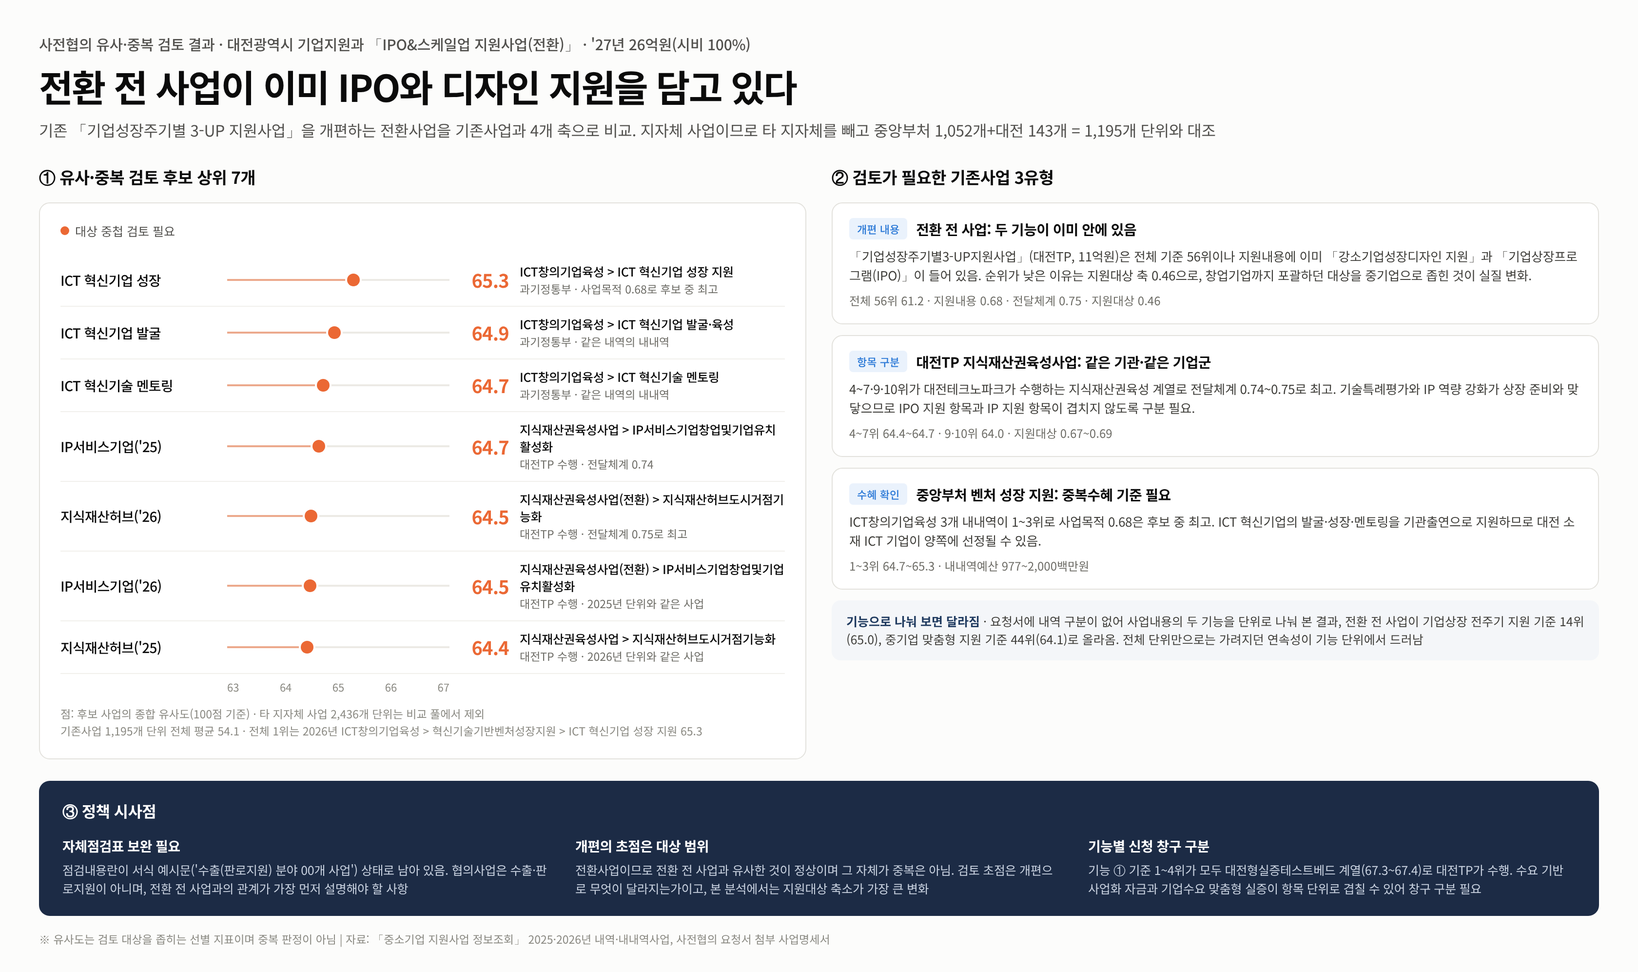
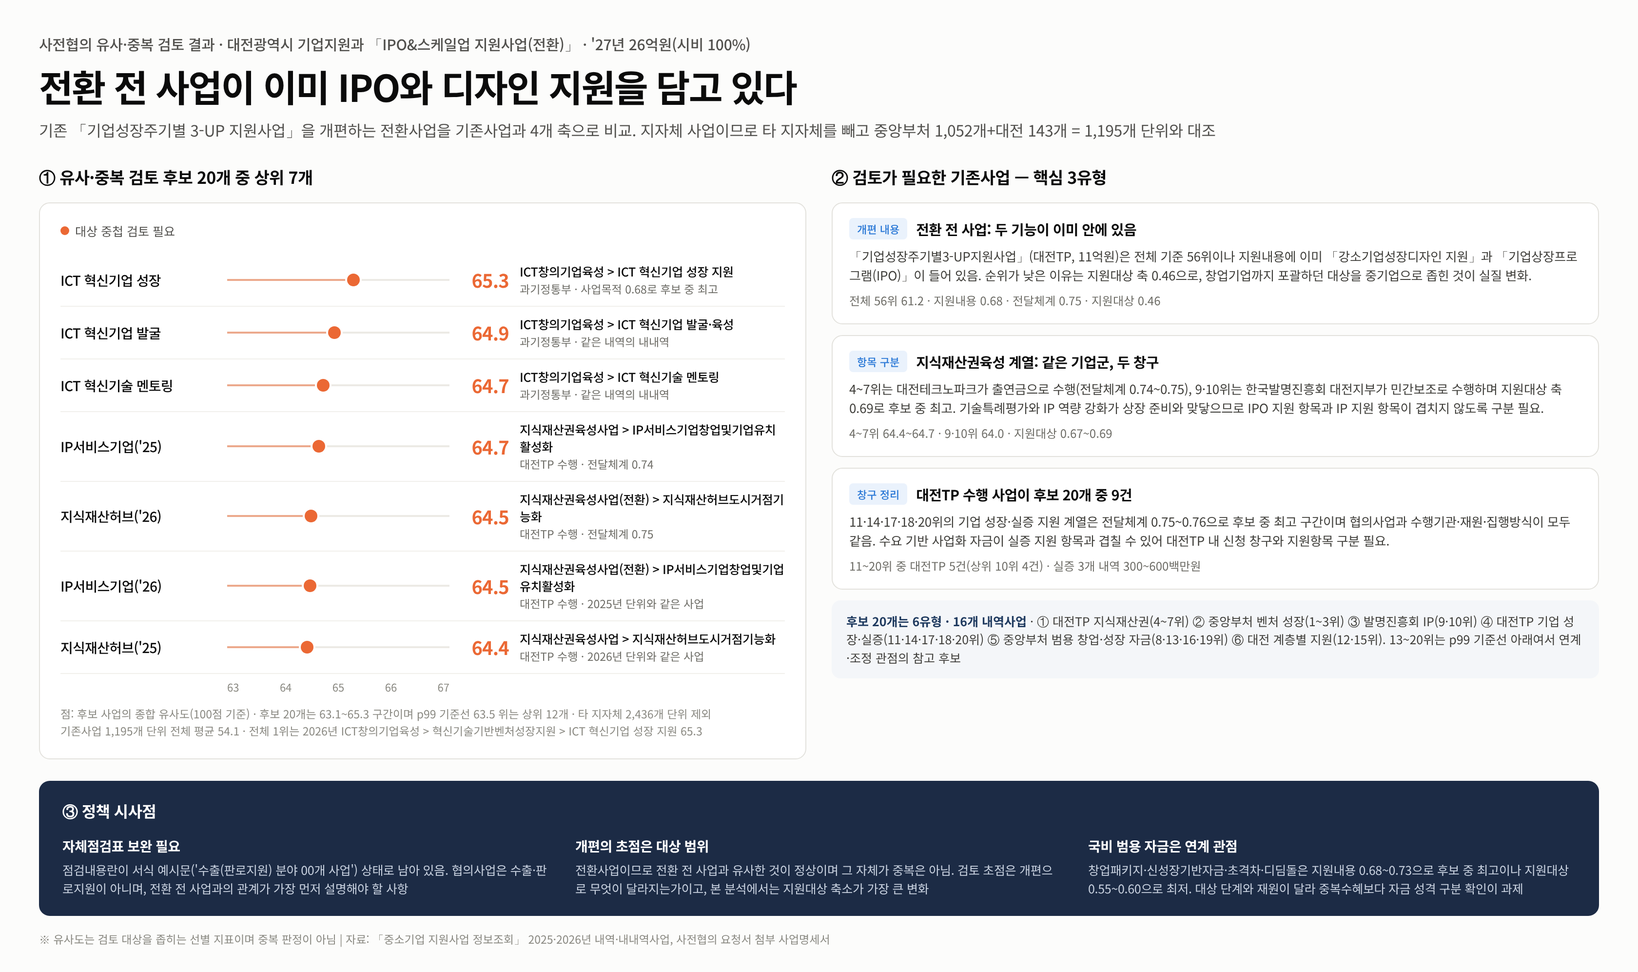
유사중복 분석: 「IPO&스케일업 지원사업(전환)」(대전) 후보 20개로 재작성
상위 10개 기준으로 작성했던 검토보고서를 새 규칙(상위 20개)에 맞춰 다시 썼다.
산출값은 바뀌지 않았다. 같은 요청서·같은 프로필·같은 임베딩 캐시로 다시 돌려
기존 xlsx와 전체 1,195단위의 종합 유사도가 최대 오차 0.00000으로 일치함을
확인했고, 순위표 xlsx 는 이미 전체 단위를 담고 있어 교체하지 않았다.

보고서
- 후보 표를 20행으로 확대(63.1~65.3). 후보 20개는 모두 평균+2σ(62.4)를
  넘으나 p99 기준선(63.5) 위는 상위 12개뿐이어서 13위부터는 기준선 아래임을
  분포 항목과 유의사항에 명시
- 유형을 3개에서 6개로 재구성해 후보 20개를 빠짐없이 배치
  ① 대전TP 지식재산권(4~7위) ② 중앙부처 벤처 성장(1~3위)
  ③ 발명진흥회 IP(9·10위) ④ 대전TP 기업 성장·실증(11·14·17·18·20위)
  ⑤ 중앙부처 범용 창업·성장 자금(8·13·16·19위) ⑥ 대전 계층별 지원(12·15위)
- 후보 구성(16개 내역사업·11개 세부사업, 대전 13건·중앙부처 7건, 대전TP 9건)과
  후보 확대 효과를 항목으로 추가
- 이전 보고서가 9·10위를 대전테크노파크 수행으로 묶었으나 실제 수행기관은
  한국발명진흥회 대전지부(민간보조)이므로 별도 유형으로 분리
- 전달체계 축 편향을 유의사항에서 후보 20개 기준(대전TP 9건)으로 다시 서술

그림·Word
- 좌측 차트는 상위 7개를 유지하되 제목과 주석에 후보 20개 중 일부임을 명시
- 유형 카드 3개를 20개 기준으로 교체하고, 6유형 전체를 비고에 요약

보고서의 순위·점수·건수 122개를 xlsx 에서 다시 읽어 대조했다.

Claude-Session: https://claude.ai/code/session_01LJTzKx3FYESPdGRcAtLmdx

diff --git a/similarity/results/유사중복_검토_대전IPO스케일업.md b/similarity/results/유사중복_검토_대전IPO스케일업.md
@@ -1,12 +1,12 @@
 # 「IPO&스케일업 지원사업(전환)」 유사·중복 후보 분석 결과
 
 - 협의사업: 대전광역시 기업지원과, ’27년 2,600백만원(시비 100%, 통계목 306-01 출연금), 사업기간 2027.1.~12. 단년도 계속, 수행 (재)대전테크노파크
-- 분석일: 2026.11.3. / 분석도구: `similarity/similarity_check.py --region 대전`(BAAI/bge-m3, 4개 축 코사인 유사도 가중합)
+- 분석일: 2026.11.9.(후보 20개 기준 재작성, 산출값은 2026.11.3. 분석과 동일) / 분석도구: `similarity/similarity_check.py --region 대전`(BAAI/bge-m3, 4개 축 코사인 유사도 가중합)
 - 산출파일: `similarity/results/유사도_산출결과_대전IPO스케일업.xlsx`(가중치·전체·기능 2개·공고매핑 시트), 프로필 `similarity/results/new_project_profile_대전IPO스케일업.json`
 
 ## 1. 검토 개요
 
-□ 협의사업의 4개 축 서술을 2025·2026년 중소기업 지원 내역·내내역사업과 임베딩 유사도로 비교하여 유사·중복 검토 후보 10개를 선정
+□ 협의사업의 4개 축 서술을 2025·2026년 중소기업 지원 내역·내내역사업과 임베딩 유사도로 비교하여 유사·중복 검토 후보 20개를 선정
 
  ○ (협의사업 자료) 사전협의 요청서 별지 1·자체점검표와 첨부 사업명세서를 기본자료로 사용
   - 요청서에 내역사업 구분이 없으나 사업내용이 ① 중기업 중심 맞춤형 지원(사업화 자금)과 ② 기업상장 전주기 지원(IPO)으로 성격이 뚜렷이 갈려, 전체 단위 외에 **기능 2개를 별도 단위로 구성**하여 희석을 피함
@@ -27,28 +27,41 @@
 
   - 5단계 등급과 지표(안) 환산점수는 코퍼스 내 z-점수로 매긴 참고치이며, 순위의 근거는 종합 유사도
 
-## 2. 분석 결과: 유사·중복 검토 후보 10개
+## 2. 분석 결과: 유사·중복 검토 후보 20개
 
 □ 전환 전 사업인 「기업성장주기별3-UP지원사업」이 **이미 IPO 프로그램과 강소기업성장디자인을 포함**하고 있어, 협의사업은 새로운 기능의 추가라기보다 **지원대상을 중기업으로 좁히고 예산을 늘린 개편**으로 확인됨
 
- ○ (분포) 비교 대상 1,195단위의 종합 유사도는 평균 54.09, 표준편차 4.17, 최댓값 65.27
-  - 평균+2σ(62.43)를 넘는 단위는 38건, 상위 1%(p99) 기준선은 63.52이며 후보 10개(63.96~65.27)는 모두 기준선 상회
-  - 1~10위가 63.96~65.27의 1.31점 폭에 모두 몰려 있어(최대 간격 0.34점) 순위로 후보를 가르기 어렵고, 유형별 검토가 적절
+ ○ (분포) 비교 대상 1,195단위의 종합 유사도는 평균 54.1, 표준편차 4.2, 최댓값 65.3
+  - 후보 20개(63.1~65.3)는 **모두 평균+2σ(62.4)를 상회**(해당 단위 38건)하나, 상위 1%(p99) 기준선 63.5를 넘는 단위는 12건이므로 **13위부터는 기준선 아래**에 위치
+  - 1~20위가 2.18점 폭에 몰려 있고 최대 간격이 0.34점(1→2위)에 불과하여 순위로 후보를 가르기 어려우므로, 아래와 같이 **유형별로 묶어** 검토
+  * 13~20위는 p99 기준선 아래이므로 직접 중복 검토 대상이 아니라 연계·조정 관점의 참고 후보로 다루는 것이 적절
+
+ ○ (후보 구성) 후보 20개는 **16개 내역사업·11개 세부사업**에 속하므로 실제 검토 대상 사업 수는 20개보다 적음
+  - 소관별로 대전광역시 13건(이 중 (재)대전테크노파크 수행 9건), 중앙부처 7건
+  - 단위별로 내역사업 16건, 내내역사업 4건이며, 연도별로 2026년 15건, 2025년 5건
 
  | 순위 | 기존사업 단위(부처·수행기관) | 단위 | 시행방법 | 종합 유사도 | 사업목적 | 지원내용 | 지원대상 | 전달체계 | 지표(안) 환산점수 |
  |---|---|---|---|---|---|---|---|---|---|
  | 1 | 「ICT창의기업육성 > 혁신기술기반벤처성장지원 > ICT 혁신기업 성장 지원」(과기정통부·정보통신산업진흥원) | 내내역 | 기관출연 | 65.3 | 0.68 | 0.68 | 0.63 | 0.60 | 56.8 |
  | 2 | 「ICT창의기업육성 > 혁신기술기반벤처성장지원 > ICT 혁신기업 발굴·육성」(과기정통부·정보통신산업진흥원) | 내내역 | 기관출연 | 64.9 | 0.68 | 0.67 | 0.63 | 0.61 | 56.8 |
  | 3 | 「ICT창의기업육성 > 혁신기술기반벤처성장지원 > ICT 혁신기술 멘토링 프로그램 운영」(과기정통부·정보통신산업진흥원) | 내내역 | 기관출연 | 64.7 | 0.68 | 0.67 | 0.63 | 0.61 | 56.8 |
- | 4 | 「지식재산권육성사업 > IP서비스기업창업및기업유치활성화사업」(대전·대전테크노파크) | 내역 | 출연(출자) | 64.7 | 0.56 | 0.63 | 0.67 | 0.74 | 58.9 |
+ | 4 | 「지식재산권육성사업 > IP서비스기업창업및기업유치활성화사업」(대전·대전테크노파크, ’25) | 내역 | 출연(출자) | 64.7 | 0.56 | 0.63 | 0.67 | 0.74 | 58.9 |
  | 5 | 「지식재산권육성사업(전환사업) > 지식재산허브도시거점기능화사업」(대전·대전테크노파크) | 내역 | 출연(출자) | 64.5 | 0.56 | 0.62 | 0.67 | 0.75 | 58.9 |
  | 6 | 「지식재산권육성사업(전환사업) > IP서비스기업창업및기업유치활성화사업」(대전·대전테크노파크) | 내역 | 출연(출자) | 64.5 | 0.56 | 0.62 | 0.67 | 0.75 | 58.9 |
- | 7 | 「지식재산권육성사업 > 지식재산허브도시거점기능화사업」(대전·대전테크노파크) | 내역 | 출연(출자) | 64.4 | 0.56 | 0.62 | 0.67 | 0.75 | 58.9 |
+ | 7 | 「지식재산권육성사업 > 지식재산허브도시거점기능화사업」(대전·대전테크노파크, ’25) | 내역 | 출연(출자) | 64.4 | 0.56 | 0.62 | 0.67 | 0.75 | 58.9 |
  | 8 | 「창업사업화지원 > 창업패키지」(중기부·창업진흥원) | 내역 | 직접수행·출연·보조(70%) | 64.1 | 0.65 | 0.73 | 0.56 | 0.62 | 56.8 |
- | 9 | 「지식재산권육성사업(국가직접지원) > IP스타기업육성사업」(대전) | 내역 | 민간보조 | 64.0 | 0.58 | 0.63 | 0.69 | 0.65 | 50.5 |
- | 10 | 「지식재산권육성사업(국가직접지원) > 소상공인지식재산역량강화사업」(대전) | 내역 | 민간보조 | 64.0 | 0.58 | 0.63 | 0.69 | 0.65 | 50.5 |
-
- - 후보 10개는 5개 세부사업에 속하므로 실제 검토 대상 사업 수는 10개보다 적음(「지식재산권육성사업」 계열 6개 단위, 「ICT창의기업육성」 3개 단위)
+ | 9 | 「지식재산권육성사업(국가직접지원) > IP스타기업육성사업」(대전·한국발명진흥회 대전지부) | 내역 | 민간보조 | 64.0 | 0.58 | 0.63 | 0.69 | 0.65 | 50.5 |
+ | 10 | 「지식재산권육성사업(국가직접지원) > 소상공인지식재산역량강화사업」(대전·한국발명진흥회 대전지부) | 내역 | 민간보조 | 64.0 | 0.58 | 0.63 | 0.69 | 0.65 | 50.5 |
+ | 11 | 「중소기업혁신성장지원및기술경쟁력강화사업(전환사업)」(대전·대전테크노파크) | 내역 | 출연(출자) | 63.8 | 0.60 | 0.63 | 0.62 | 0.75 | 55.8 |
+ | 12 | 「유망소상공인사업화지원」(대전·대전일자리경제진흥원) | 내역 | 직접수행 | 63.6 | 0.62 | 0.61 | 0.65 | 0.67 | 47.4 |
+ | 13 | 「신성장기반자금(융자) > 혁신성장지원」(중기부·중소벤처기업진흥공단) | 내역 | 융자 | 63.5 | 0.64 | 0.73 | 0.57 | 0.56 | 53.7 |
+ | 14 | 「대전형실증테스트베드지원(전환사업) > 정출연융복합신기술-기업연계실증지원사업」(대전·대전테크노파크) | 내역 | 출연(출자) | 63.3 | 0.59 | 0.63 | 0.61 | 0.76 | 55.8 |
+ | 15 | 「중소기업육성 > 여성기업경쟁력강화사업」(대전광역시, ’25) | 내역 | 기타 | 63.3 | 0.61 | 0.63 | 0.63 | 0.67 | 47.4 |
+ | 16 | 「창업사업화지원 > 초격차스타트업1000+프로젝트」(중기부·창업진흥원 등, ’25) | 내역 | 직접수행·출연·보조(70%) | 63.2 | 0.63 | 0.73 | 0.55 | 0.61 | 51.6 |
+ | 17 | 「대전형실증테스트베드지원(전환사업) > 공공수요기반문제해결형실증지원사업」(대전·대전테크노파크) | 내역 | 출연(출자) | 63.2 | 0.59 | 0.62 | 0.61 | 0.76 | 55.8 |
+ | 18 | 「대전형실증테스트베드지원(전환사업) > 대전형실증플랫폼운영및활성화」(대전·대전테크노파크) | 내역 | 출연(출자) | 63.1 | 0.59 | 0.62 | 0.61 | 0.76 | 55.8 |
+ | 19 | 「창업성장기술개발(R&D) > 디딤돌 > 신규 868개 과제」(중기부·중소기업기술정보진흥원) | 내내역 | 기관출연 | 63.1 | 0.62 | 0.68 | 0.60 | 0.61 | 51.6 |
+ | 20 | 「정보통신산업육성(전환사업) > ICT기업전주기지원사업(전환)」(대전·대전테크노파크, ’25) | 내역 | 출연(출자) | 63.1 | 0.59 | 0.72 | 0.51 | 0.75 | 55.8 |
 
  ○ (전환 전 사업과의 관계 — 전체 기준 56위) 「기업성장주기별3-UP지원사업(전환사업)」(대전·대전테크노파크, 내역예산 1,100백만원)은 전체 단위 기준 56위(61.2)로 후보권 밖이나, **협의사업이 개편 대상으로 지목한 바로 그 사업**
   - 지원내용 축 0.68, 전달체계 축 0.75로 높으나 **지원대상 축이 0.46으로 낮아** 종합 순위가 내려감
@@ -56,29 +69,53 @@
   * 지원대상 축의 차이가 유일한 실질 변화로 보임: 기존은 창업지원기반 조성을 포함해 창업기업부터 포괄하나 협의사업은 중기업으로 대상을 좁힘
   * 기능 단위로 보면 연속성이 더 뚜렷함 — 기업상장 전주기 지원 기준 **14위(65.0)**, 중기업 맞춤형 지원 기준 **44위(64.1)**
 
- ○ (유형 1: 대전TP 수행 지식재산권육성사업 — 4~7·9·10위) 같은 수행기관이 같은 지역 기업을 대상으로 운영하는 사업으로 전달체계 축이 0.74~0.75로 가장 높음
-  - 「IP서비스기업창업및기업유치활성화사업」·「지식재산허브도시거점기능화사업」은 2025·2026년 단위가 각각 들어와 실제로는 2개 사업
-  - 지원대상 축 0.67~0.69로 높아 같은 기업군이 양쪽 지원을 받을 수 있는 구조
+ ○ (유형 1: 대전TP 수행 지식재산권육성사업 — 4~7위) 같은 수행기관이 같은 지역 기업을 대상으로 운영하는 사업으로, 후보 중 전달체계 축이 0.74~0.75로 상위
+  - 「IP서비스기업창업및기업유치활성화사업」·「지식재산허브도시거점기능화사업」은 2025·2026년 단위가 각각 들어와 실제로는 2개 사업(내역예산 150~200백만원)
+  - 지원대상 축 0.67로 높아 같은 기업군이 양쪽 지원을 받을 수 있는 구조
   * 기술특례평가·IP 역량 강화가 상장 준비와 맞닿으므로, IPO 지원 항목과 IP 지원 항목이 겹치지 않도록 구분 필요
 
- ○ (유형 2: 중앙부처 벤처 성장 지원 — 1~3위) 「ICT창의기업육성」 3개 내내역은 사업목적 0.68로 후보 중 최고
-  - ICT 혁신기업의 발굴·성장·멘토링을 기관출연으로 지원하여 지원내용 축도 0.67~0.68
-  * 대전 소재 ICT 기업이 양쪽에 선정될 수 있으므로 중복수혜 방지 기준 확인 필요
+ ○ (유형 2: 중앙부처 벤처 성장 지원 — 1~3위) 「ICT창의기업육성 > 혁신기술기반벤처성장지원」 3개 내내역은 사업목적 0.68로 후보 중 최고
+  - ICT 혁신기업의 발굴·성장·멘토링을 기관출연으로 지원하여 지원내용 축도 0.67~0.68(내내역예산 977~2,000백만원)
+  - 3개 단위가 하나의 내역사업에 속하고 「2026년 글로벌 ICT 미래 유니콘 육성(ICT GROWTH) 사업」 공고로 연결되어, 실제로는 1개 사업
+  * 협의사업의 목표가 '유니콘 유망기업 육성'이어서 사업목적 서술이 가장 가깝게 맞닿으며, 대전 소재 ICT 기업이 양쪽에 선정될 수 있으므로 중복수혜 방지 기준 확인 필요
 
- ○ (유형 3: 범용 창업 사업화 — 8위) 「창업패키지」(지원규모 461,838백만원)는 지원내용 축 0.73으로 후보 중 최고이나 지원대상 축이 0.56으로 가장 낮음
-  * 창업기업 대상 범용 사업화 자금이어서 중기업 중심인 협의사업과 대상 단계가 다름
+ ○ (유형 3: 발명진흥회 수행 국가직접지원 IP사업 — 9·10위) 「IP스타기업육성사업」·「소상공인지식재산역량강화사업」은 **지원대상 축 0.69로 후보 20개 중 최고**
+  - 수행기관이 한국발명진흥회 대전지부이고 시행방법이 민간보조여서 유형 1과 전달체계가 다름(전달체계 축 0.65)
+  * 유형 1과 사업명 계열은 같으나 창구와 집행방식이 달라, 같은 기업이 IP 지원을 두 경로로 받는 구조인지 확인 필요
+
+ ○ (유형 4: 대전TP 수행 기업 성장·실증 지원 — 11·14·17·18·20위) 전달체계 축이 0.75~0.76으로 **후보 20개 중 최고 구간**이며, 협의사업과 수행기관·재원·집행방식이 동일
+  - 「대전형실증테스트베드지원(전환사업)」 3개 내역(14·17·18위, 내역예산 300~600백만원)은 기업수요 기반 실증을 지원
+  - 「중소기업혁신성장지원및기술경쟁력강화사업(전환사업)」(11위, 800백만원)과 「정보통신산업육성 > ICT기업전주기지원사업」(20위, 400백만원)은 성장단계 기업의 기술경쟁력·전주기 지원을 담당
+  - 20위는 지원내용 축 0.72로 유형 4 중 최고이나 지원대상 축이 0.51로 가장 낮아, 지원수단은 닮았으나 대상 범위가 다름
+  * 협의사업의 '수요 기반 사업화 자금'이 실증 지원 항목과 항목 단위로 겹칠 수 있으므로, 대전테크노파크 내 신청 창구와 지원항목 구분 필요
+
+ ○ (유형 5: 중앙부처 범용 창업·성장 자금 — 8·13·16·19위) **지원내용 축이 0.68~0.73으로 후보 중 가장 높으나 지원대상 축이 0.55~0.60으로 가장 낮은** 조합
+  - 「창업패키지」(8위, 지원규모 461,838백만원)와 「초격차스타트업1000+프로젝트」(16위, 130,996백만원)는 창업기업 대상 범용 사업화 자금
+  - 「신성장기반자금(융자) > 혁신성장지원」(13위, 510,750백만원)은 지원내용 0.73이나 융자 방식이어서 전달체계 축 0.56으로 후보 중 최저
+  - 「창업성장기술개발(R&D) > 디딤돌」(19위, 71,128백만원)은 R&D 과제 지원이어서 사업화 자금과 지원항목이 구분됨
+  * 사업화 자금이라는 지원수단은 같으나 대상 단계(창업기업)와 재원(국비)이 달라 중복수혜보다 **연계** 관점의 검토가 적절하며, 협의사업 선정기업이 국비 사업에 동시 선정되는 경우의 자금 성격 구분만 확인하면 됨
+
+ ○ (유형 6: 대전 자체 계층별 기업 지원 — 12·15위) 대상 계층을 특정한 대전시 자체사업으로, 협의사업의 '중기업' 대상과 계층이 겹치지 않음
+  - 「유망소상공인사업화지원」(12위, 200백만원)은 소상공인, 「중소기업육성 > 여성기업경쟁력강화사업」(15위, 50백만원)은 여성기업을 대상으로 함
+  * 사업화 자금을 지원한다는 점에서 지원수단이 닮았으나 대상 계층이 달라 **대상 요건 중복 여부만 확인**하면 되는 참고 후보
+
+ ○ (후보 확대 효과) 상위 10개에서 20개로 넓히면서 **전달체계 축 편향이 더 뚜렷하게 드러남**
+  - 추가된 11~20위 가운데 5건이 대전테크노파크 수행 사업이어서(상위 10개에는 4건), 후보 20개 중 대전TP 수행 단위가 9건으로 늘어남
+  - 상위 10개만 보던 단계에서는 유형이 3개였으나, 20개에서는 중앙부처 범용 자금(4건)과 대전TP 기업 성장·실증 지원(5건)이 각각 하나의 유형을 이룸
+  * 1~10위의 산출값은 2026.11.3. 분석과 동일하며, 후보 범위만 확대됨
 
 ## 3. 기능별 후보 (참고)
 
 □ 두 기능의 상위 후보가 서로 달라, 전체 단위만으로는 가려지던 유사사업이 기능 단위에서 드러남
 
- ○ (기능 ① 중기업 중심 맞춤형 지원, 최대 67.41 / 평균 56.45) 대전시 실증 지원 계열이 상위를 점유
-  - 「대전형실증테스트베드지원(전환사업)」의 4개 내역이 1~4위(67.27~67.41)로 모두 대전테크노파크 수행
+ ○ (기능 ① 중기업 중심 맞춤형 지원, 최대 67.4 / 평균 56.4) 대전시 실증 지원 계열이 상위를 점유
+  - 「대전형실증테스트베드지원(전환사업)」의 4개 내역이 1~4위(67.3~67.4)로 모두 대전테크노파크 수행
+  - 5위는 「디자인산업진흥 > 디자인-기술 협업활성화」(산업부·한국디자인진흥원, 66.7)로, 기존 사업의 강소기업성장디자인 항목과 맞닿음
   * 수요 기반 사업화 자금과 기업수요 맞춤형 실증 지원이 항목 단위로 겹칠 수 있어 신청 창구 구분 필요
 
- ○ (기능 ② 기업상장 전주기 지원, 최대 67.19 / 평균 52.66) 창업보육·성장캠퍼스 계열이 상위
-  - 「창업보육경쟁력강화사업」 2025·2026년 단위가 1·2위(66.73~67.19), 「대전창업성장캠퍼스활성화(전환사업)」가 3위(65.77)
-  - 전환 전 사업인 「기업성장주기별3-UP지원사업」이 14위(64.97)로 전체 기준(56위)보다 크게 올라옴
+ ○ (기능 ② 기업상장 전주기 지원, 최대 67.2 / 평균 52.7) 창업보육·성장캠퍼스 계열이 상위
+  - 「창업보육경쟁력강화사업」 2025·2026년 단위가 1·2위(66.7~67.2), 「대전창업성장캠퍼스활성화(전환사업)」가 3위(65.8)
+  - 전환 전 사업인 「기업성장주기별3-UP지원사업」이 14위(65.0)로 전체 기준(56위)보다 크게 올라옴
   * 상장 준비 지원이라는 기능으로 좁혀 보면 기존 사업과의 연속성이 분명해지므로, 개편 설명에 이 관점을 쓰는 편이 유리
 
  ○ (자체점검표 대조) 요청서 자체점검표의 점검내용란이 **서식의 예시문 상태로 남아 있어** 실제 점검 결과를 확인할 수 없음
@@ -94,9 +131,15 @@
   - 검토의 초점은 중복 여부가 아니라 **개편으로 무엇이 달라지는지**이며, 본 분석에서는 지원대상의 범위 축소가 가장 큰 변화로 확인됨
   - 전환 전 사업이 전체 기준 56위에 그친 것은 지원대상 축(0.46) 때문이므로, 순위를 유사성의 크기로 바로 읽지 않아야 함
 
+ ○ (후보 20개의 해석) 13~20위는 p99 기준선(63.5) 아래에 있어 상위 12개와 같은 무게로 다루지 않아야 함
+  - 후보 간 점수 폭이 2.18점에 불과해 순위 차이는 유의한 차이로 보기 어려우므로, 순위보다 유형별 겹침 구조를 근거로 삼아야 함
+
  ○ (기능 단위 구성의 성격) 요청서에 내역사업 구분이 없어 사업내용의 두 기능을 임의로 나누어 비교한 것이므로, 기능별 시트는 참고 자료이며 예산 배분과 일치하지 않음
 
- ○ (단위 특성) 같은 사업의 2025·2026년 단위가 함께 들어온 경우가 있어(「지식재산권육성사업」 계열, 「창업보육경쟁력강화사업」) 실제 사업 수는 순위 건수보다 적음
+ ○ (단위 특성) 같은 사업의 2025·2026년 단위가 함께 들어온 경우가 있어(「지식재산권육성사업」 계열 4건, 「창업보육경쟁력강화사업」) 실제 사업 수는 순위 건수보다 적으며, 후보 20개는 16개 내역사업·11개 세부사업에 속함
+  - 내내역 단위 4건(1~3위, 19위)은 사업목적·지원대상·전달체계를 부모 내역사업에서 상속하므로 같은 내역의 내내역끼리 점수가 비슷하게 나옴
+
+ ○ (지표 특성) 전달체계 축이 수행기관으로 근사되어 대전테크노파크 수행 사업이 후보 20개 중 9건을 차지하므로, 이들은 **지원내용·지원대상 축으로 보정 해석**해야 함
 
  ○ (풀에 없는 사업 유형) 대전광역시 소관 143개 단위는 비교 풀에 있으나 타 지자체 사업은 규칙에 따라 제외되었고, 기관 자체사업과 예산서 밖 사업은 포함되지 않음
 
